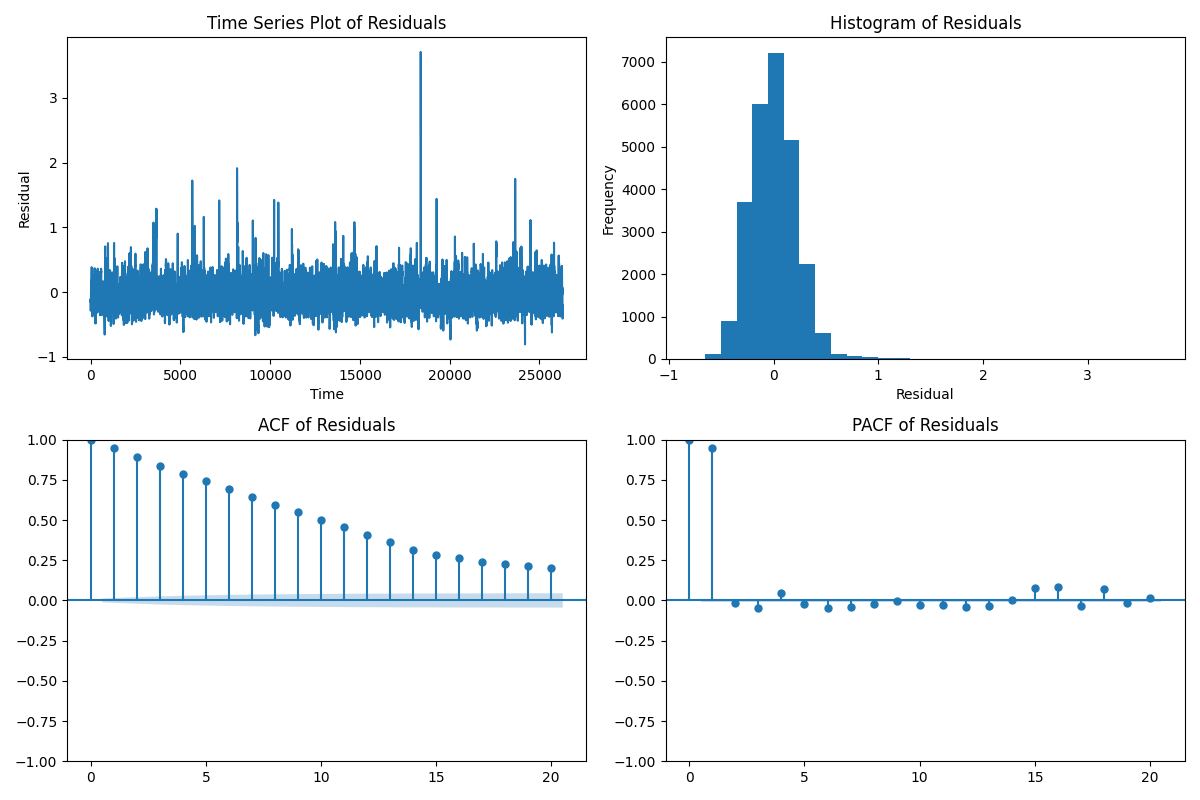
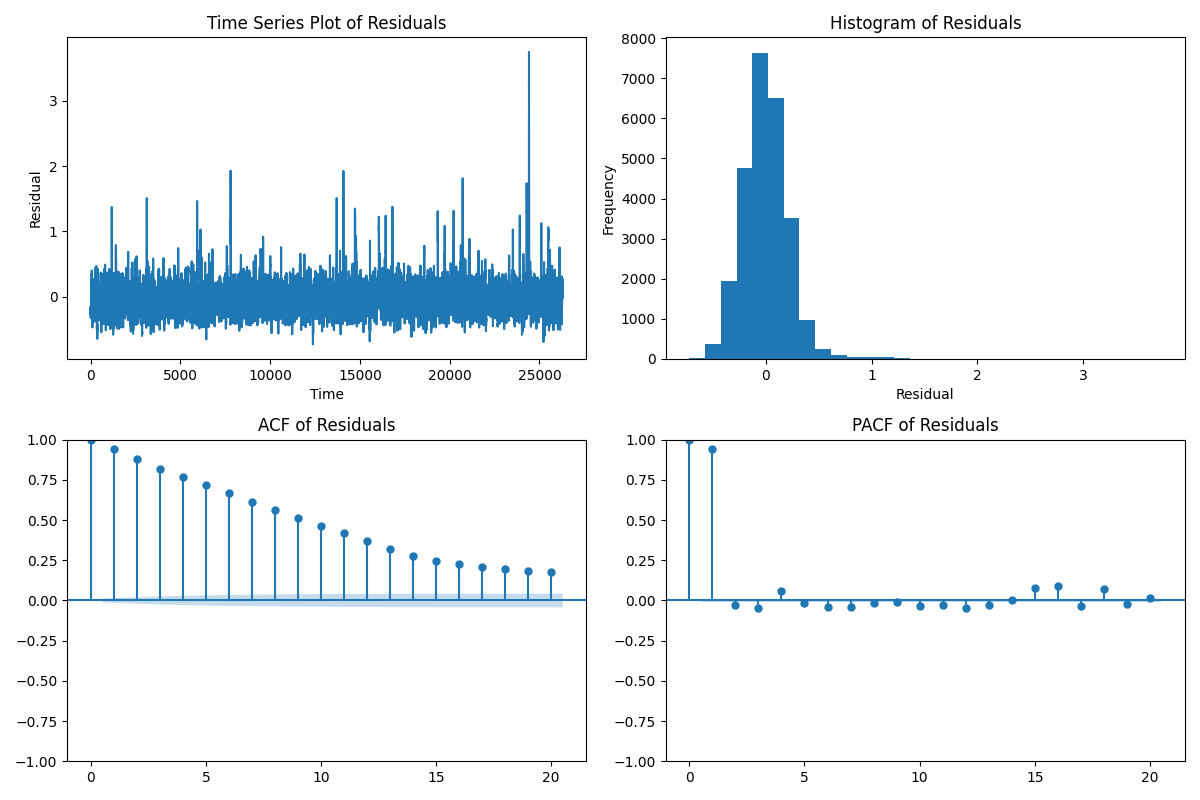
glsar update

diff --git a/feature_analysis.py b/feature_analysis.py
@@ -159,7 +159,7 @@ X_train_const = sm.add_constant(X_train_interaction.to_numpy())
 X_test_const = sm.add_constant(X_test_interaction.to_numpy())
 
 # Fit the GLSAR model
-rho = 4  # Starting with AR(2) based on previous Ljung-Box results. Change as needed.
+rho = 5  # Starting with AR(2) based on previous Ljung-Box results. Change as needed.
 model = sm.GLSAR(y_train.to_numpy(), X_train_const, rho=rho)
 glsar_model = model.iterative_fit(maxiter=5)
 
@@ -260,10 +260,11 @@ print(f"Theil's U: {theils_u_val}")
 
 # Example: Add lagged values of an existing feature (e.g., return_1d)
 
-# Add lagged values (e.g., 1, 2, and 3 lags) of 'return_1d' to both training and testing sets
+lagged_features = ["return_1d"]
 for i in range(1, 4):
-  X_train = X_train.with_columns(pl.col("return_1d").shift(i).alias(f"return_1d_lag_{i}"))
-  X_test = X_test.with_columns(pl.col("return_1d").shift(i).alias(f"return_1d_lag_{i}"))
+    for feature in lagged_features:
+        X_train = X_train.with_columns(pl.col(feature).shift(i).alias(f"{feature}_lag_{i}"))
+        X_test = X_test.with_columns(pl.col(feature).shift(i).alias(f"{feature}_lag_{i}"))
 
 # Remove rows with NaNs that were introduced due to lagging
 X_train = X_train.drop_nulls()
